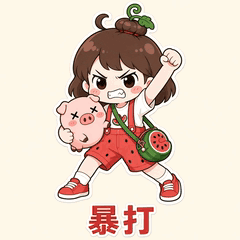
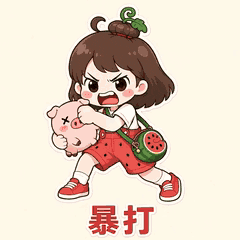
feat: fast consecutive-hit 打你 and 暴打; --len picks best window

Changed region(s): [[0.175, 0.0, 0.7875, 0.8458], [0.525, 0.9333, 0.5542, 0.9625]]

diff --git a/src/lib/packs.ts b/src/lib/packs.ts
@@ -290,11 +290,11 @@ export const PACKS: Pack[] = [
 ];
 
 export function stickerGif(packId: string, stickerId: string) {
-  return `/stickers/${packId}/${stickerId}.gif?v=89`;
+  return `/stickers/${packId}/${stickerId}.gif?v=90`;
 }
 
 export function stickerPng(packId: string, stickerId: string) {
-  return `/stickers/${packId}/${stickerId}.png?v=89`;
+  return `/stickers/${packId}/${stickerId}.png?v=90`;
 }
 
 export function getPack(id: string) {
